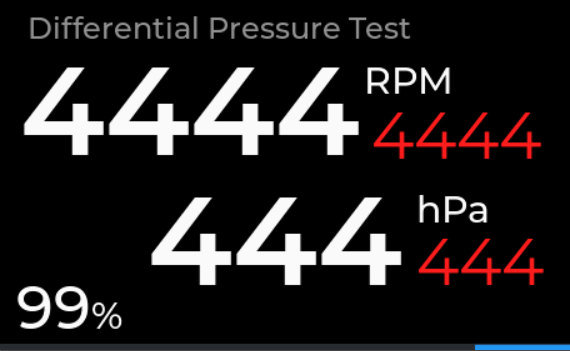
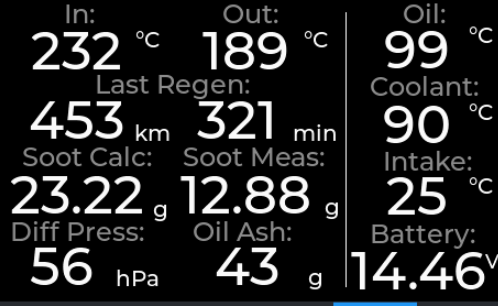
1.2.23

diff --git a/pl/mini/index.html b/pl/mini/index.html
@@ -49,11 +49,11 @@
     <tbody>
       <tr>
         <td>Napięcie pracy</td>
-        <td style="text-align:right;">6-19V (28V MAX)</td>
+        <td style="text-align:right;">6-19V (32V MAX)</td>
       </tr>
       <tr>
         <td>Pobór prądu podczas działania</td>
-        <td style="text-align:right;">~50mA</td>
+        <td style="text-align:right;">~40mA</td>
       </tr>
       <tr>
         <td>Pobór prądu podczas uśpienia</td>
@@ -95,7 +95,7 @@
 <img src="/assets/img/mainscreen_gesture_leftright.png" alt="Gest przesunięcia palcem w lewo lub w prawo" class="center-image">
 <ul>
 <li>Jeżeli urządzenie nie pracuje w trybie automatycznej regulacji jasności, dotknięcie ekranu w dowolnym miejscu powoduje przełączenie między trybem jasnym (dziennym) a ciemnym.</li>
-<li>Gdy wyświetlana jest strona 5 – Differential Pressure Test, użytkownik może wyzerować wartości maksymalne, wykonując gest przesunięcia palcem z dołu do góry.</li>
+<li>Gdy wyświetlana jest strona ostantnia 6 – Differential Pressure Test, użytkownik może wyzerować wartości maksymalne, wykonując gest przesunięcia palcem z dołu do góry.</li>
 </ul>
 <img src="/assets/img/page5_gesture_bottomup.png" alt="Gest przesunięcia palcem z dołu do góry" class="center-image">
 <ul>
@@ -123,6 +123,19 @@
 <h4>Strona 3</h4>
 <img src="/assets/img/page3.png" alt="Strona 3" class="center-image">
 <ul>
+<h4>Strona 4</h4>
+<img src="/assets/img/page4.png" alt="Strona 4" class="center-image">
+<li>Parametry są opisane na ekranie.</li>
+<h4>Strona 5</h4>
+<img src="/assets/img/page5.png" alt="Strona 5" class="center-image">
+<ul>
+<li>Parametry są opisane na ekranie.</li>
+</ul>
+<h4>Strona 6</h4>
+<img src="/assets/img/page6.png" alt="Strona 6" class="center-image">
+<ul>
+<li>Na ostatniej stronie znajduje się pomiar ciśnienia różnicowego. Maksymalne wartości są podświetlone na czerwono. W dolnym lewym rogu znajduje się aktualny procent zapełnienia DPF.</li>
+</ul>
 <li>Po lewej stronie znajduje się zapełnienie DPF oraz dystans od ostatniego wypalania</li>
 <li>Po prawej stronie u góry znajdują się temperatura przed i za filtrem DPF</li>
 <li>Po prawej stronie na dole znajduje się ciśnienie różnicowe</li>
@@ -159,7 +172,12 @@
 <li><b>Night brightness</b></li>
 <p>Ustawienie jasności ekranu w trybie nocnym.</p>
 </ul>
-<h3 id="dtc">4. DTC</h3>
+<h3 id="zegar">4. Ustawienie zegara</h3>
+<img src="/assets/img/clocksettings.png" alt="Zegar" class="center-image"> 
+<ul>
+<li>W celu ustawienia godziny należy przesunąć palec po ekranie w górę lub dół dla godzin i minut po czym kliknąć przycisk set. </li>
+</ul>
+<h3 id="dtc">5. DTC</h3>
 <img src="/assets/img/dtc1.png" alt="DTC" class="center-image">
 <ul>
 <li><b>Current</b></li>
@@ -169,7 +187,7 @@
 <li><b>Clear</b></li>
 <p>Wyczyszczenie wszystkich błędów DTC zapisanych w pamięci sterownika.</p>
 </ul>
-<h3 id="historia">5. Historia</h3>
+<h3 id="historia">6. Historia</h3>
 <ul>
 <li>Urządzenie zapisuje historię dla 10 ostatnich regeneracji DPF. </li>
 <li>Po osiągnięciu 10 regeneracji nowa historia zastępuje najstarszą.</li>
@@ -177,6 +195,26 @@
 <li>Aby wyczyścić całą historię należy przytrzymać przycisk History przez 2 sekundy.</li>
 </ul>
 <img src="/assets/img/history.png" alt="Historia" class="center-image">
+<h3 id="pomiar">7. Pomiar 0-100</h3>
+<ul>
+<li>Urządzenie umożliwia pomiar czasu przyspieszenia od 0 do 100 km/h.</li>
+<li>Aktualny wynik pomiaru jest wyświetlany na ekranie w górnym prawym rogu.</li>
+<li>Poniżej wyświetlane są trzy ostatnie wyniki pomiaru. Na zielono oznaczony jest najlepszy wynik.</li>
+<li>READY oznacza gotowość do rozpoczęcia pomiaru. STOP oczekuje na zatrzymanie samochodu. RESET czeka na kliknięcie przycisku reset w celu zresetowania pomiaru i rozpoczecia nowego.</li> 
+<li>Przytrzymanie przycisku RESET powoduje zresetowanie trzech ostatnich wyników pomiaru.</li>
+</ul>
+<img src="/assets/img/performance.png" alt="Pomiar 0-100" class="center-image">
+<h3 id="silnik">7. Odczyt danych silnika</h3>
+<ul>
+<li>Urządzenie umożliwia odczyt danych z silnika takich jak: ciśnienie doładowania, ciśnienie paliwa na listwie, MAF, korekty wtrysków czy temperatury wydechu.</li>
+<li>Zmiana stron następuje po przesunięciu palcem góra/dół.</li>
+<img src="/assets/img/advanced.png" alt="Dane silnika" class="center-image">
+<li>Wyjście z tego podmenu odbywa się standardowo gestem palca z lewej do prawej.</li>
+<li>Jest również możliwość podejrzenia dancyh na wykresie, takich jak: ciśnienie doładowania, ciśnienie paliwa, MAF - wartości rzeczywiste i zmierzone. W tym celu należy przytrzymać przycisk Advanced przez 2 sekundy.</li> 
+<img src="/assets/img/advanced_long_press.png" alt="Pomiar 0-100" class="center-image">
+<li>Następnie należy wybrać który wykres chce się podejrzeć.</li>
+<img src="/assets/img/choose_graph.png" alt="Wybierz wykres" class="center-image">
+</ul>
 
       </div>
 
@@ -188,8 +226,11 @@
           <li><a href="#ekran">Ekran główny</a></li>
           <li><a href="#menu">Menu</a></li>
           <li><a href="#ustawienia">Ustawienia</a></li>
+          <li><a href="#zegar">Ustawienie zegara</a></li>
           <li><a href="#dtc">DTC</a></li>
           <li><a href="#historia">Historia</a></li>
+          <li><a href="#pomiar">Pomiar 0-100</a></li>
+          <li><a href="#silnik">Odczyt danych silnika</a></li>
         </ul>
       </aside>
 
